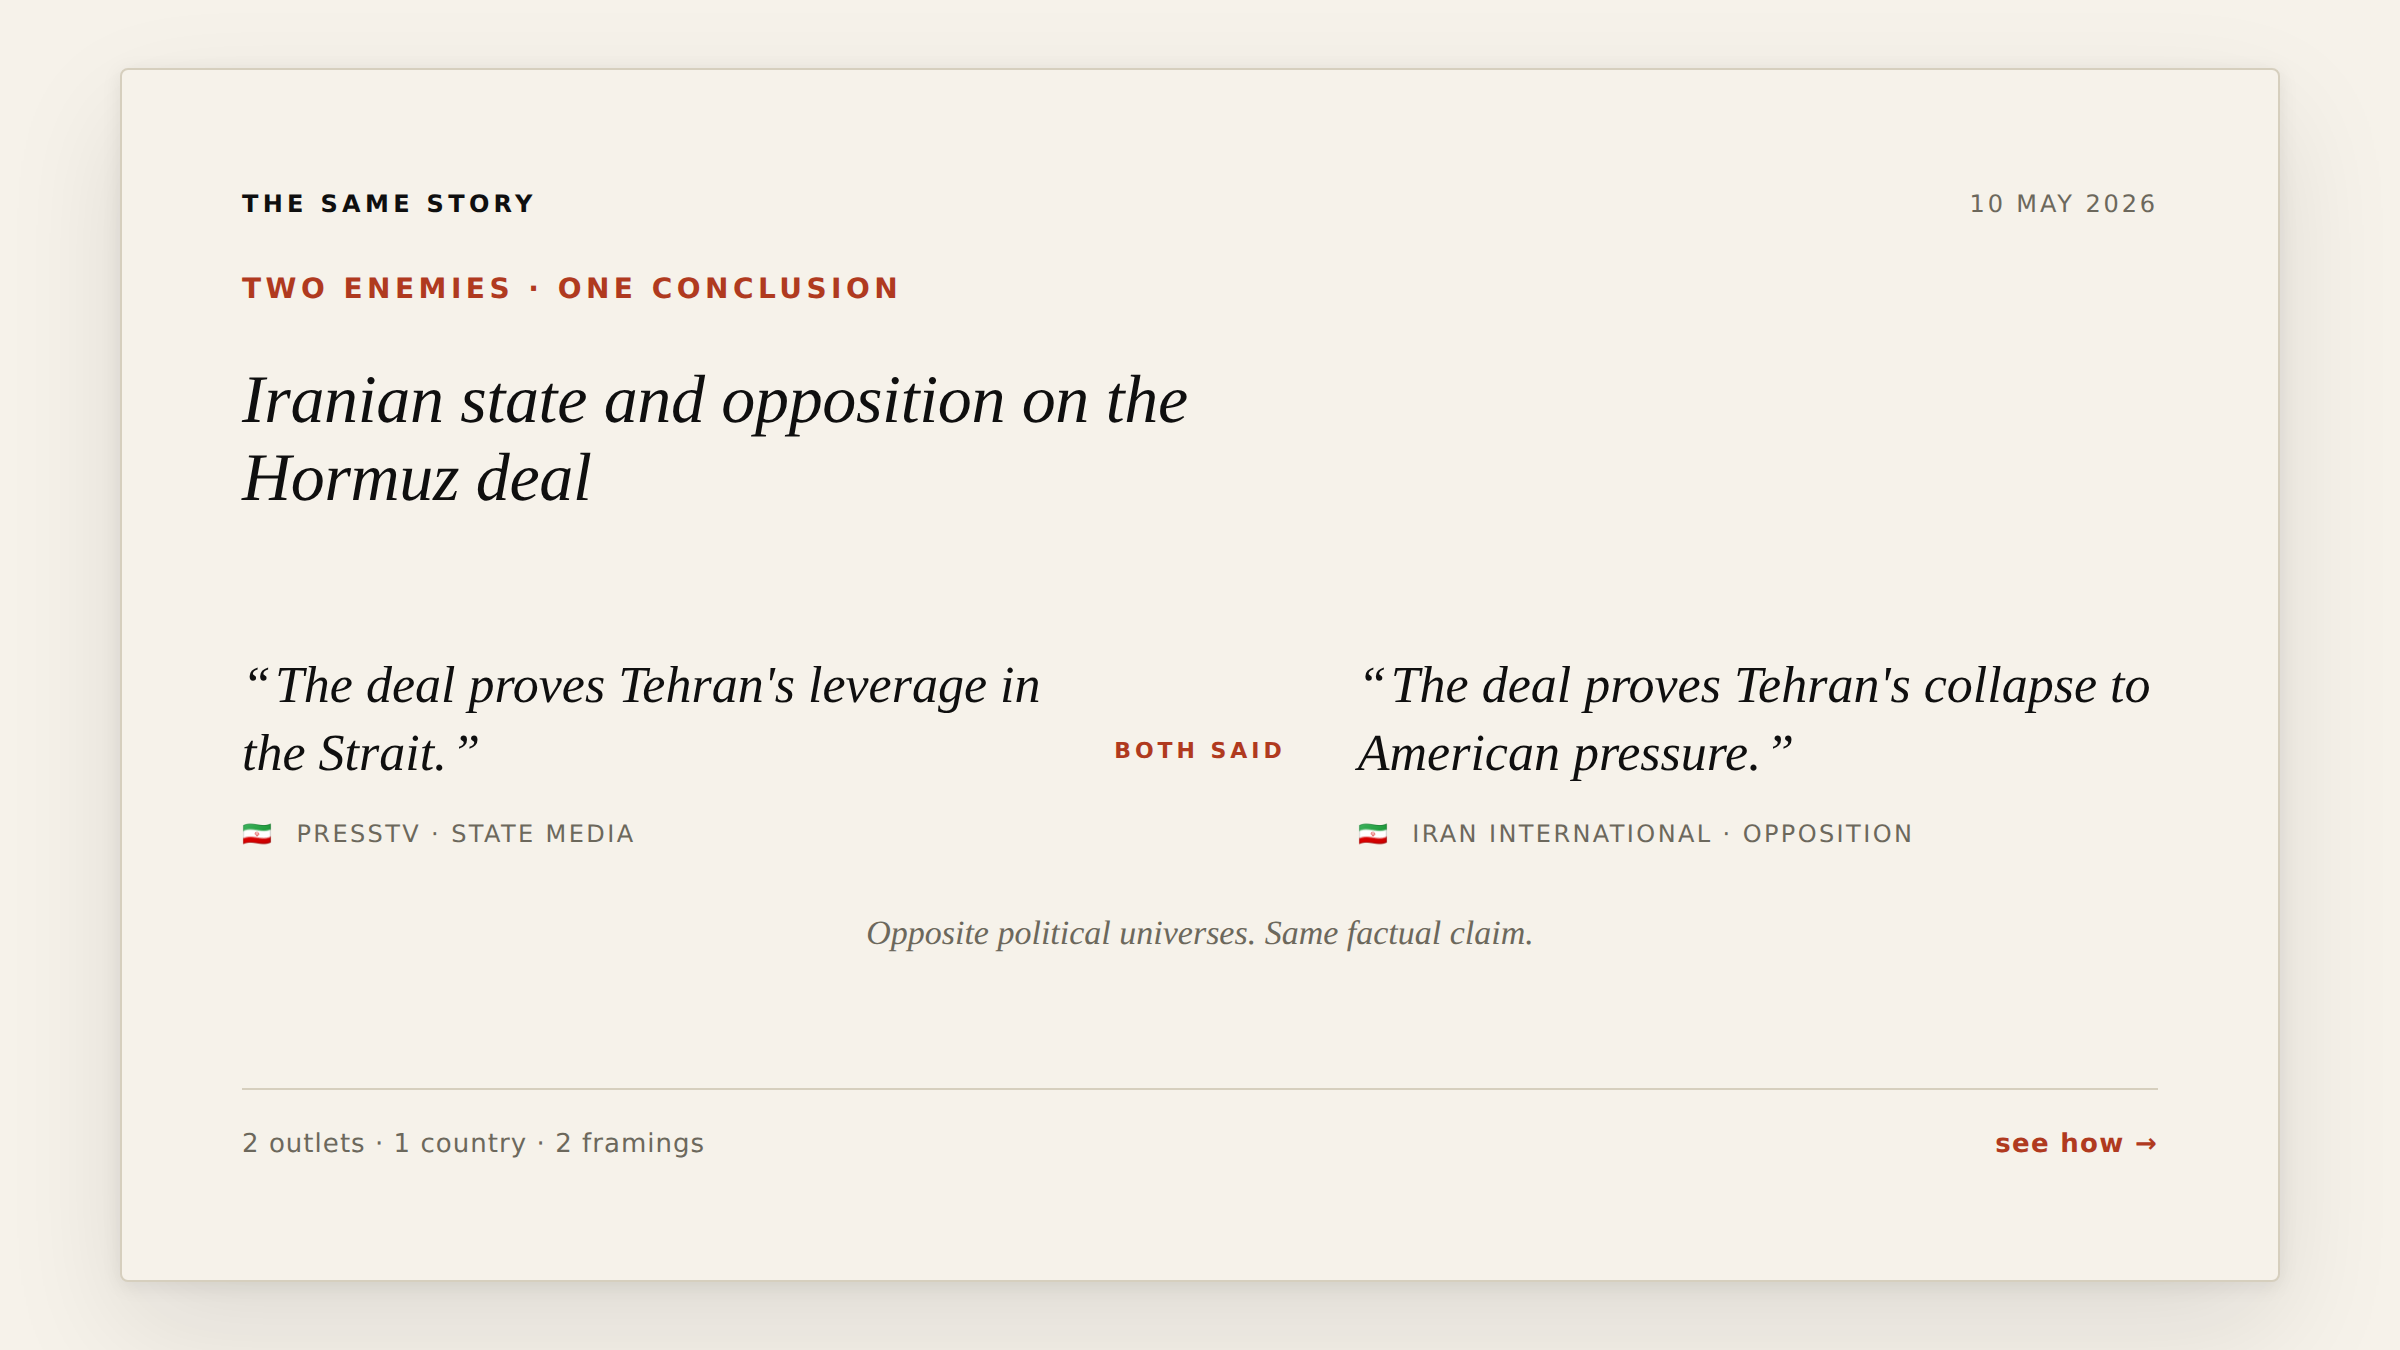
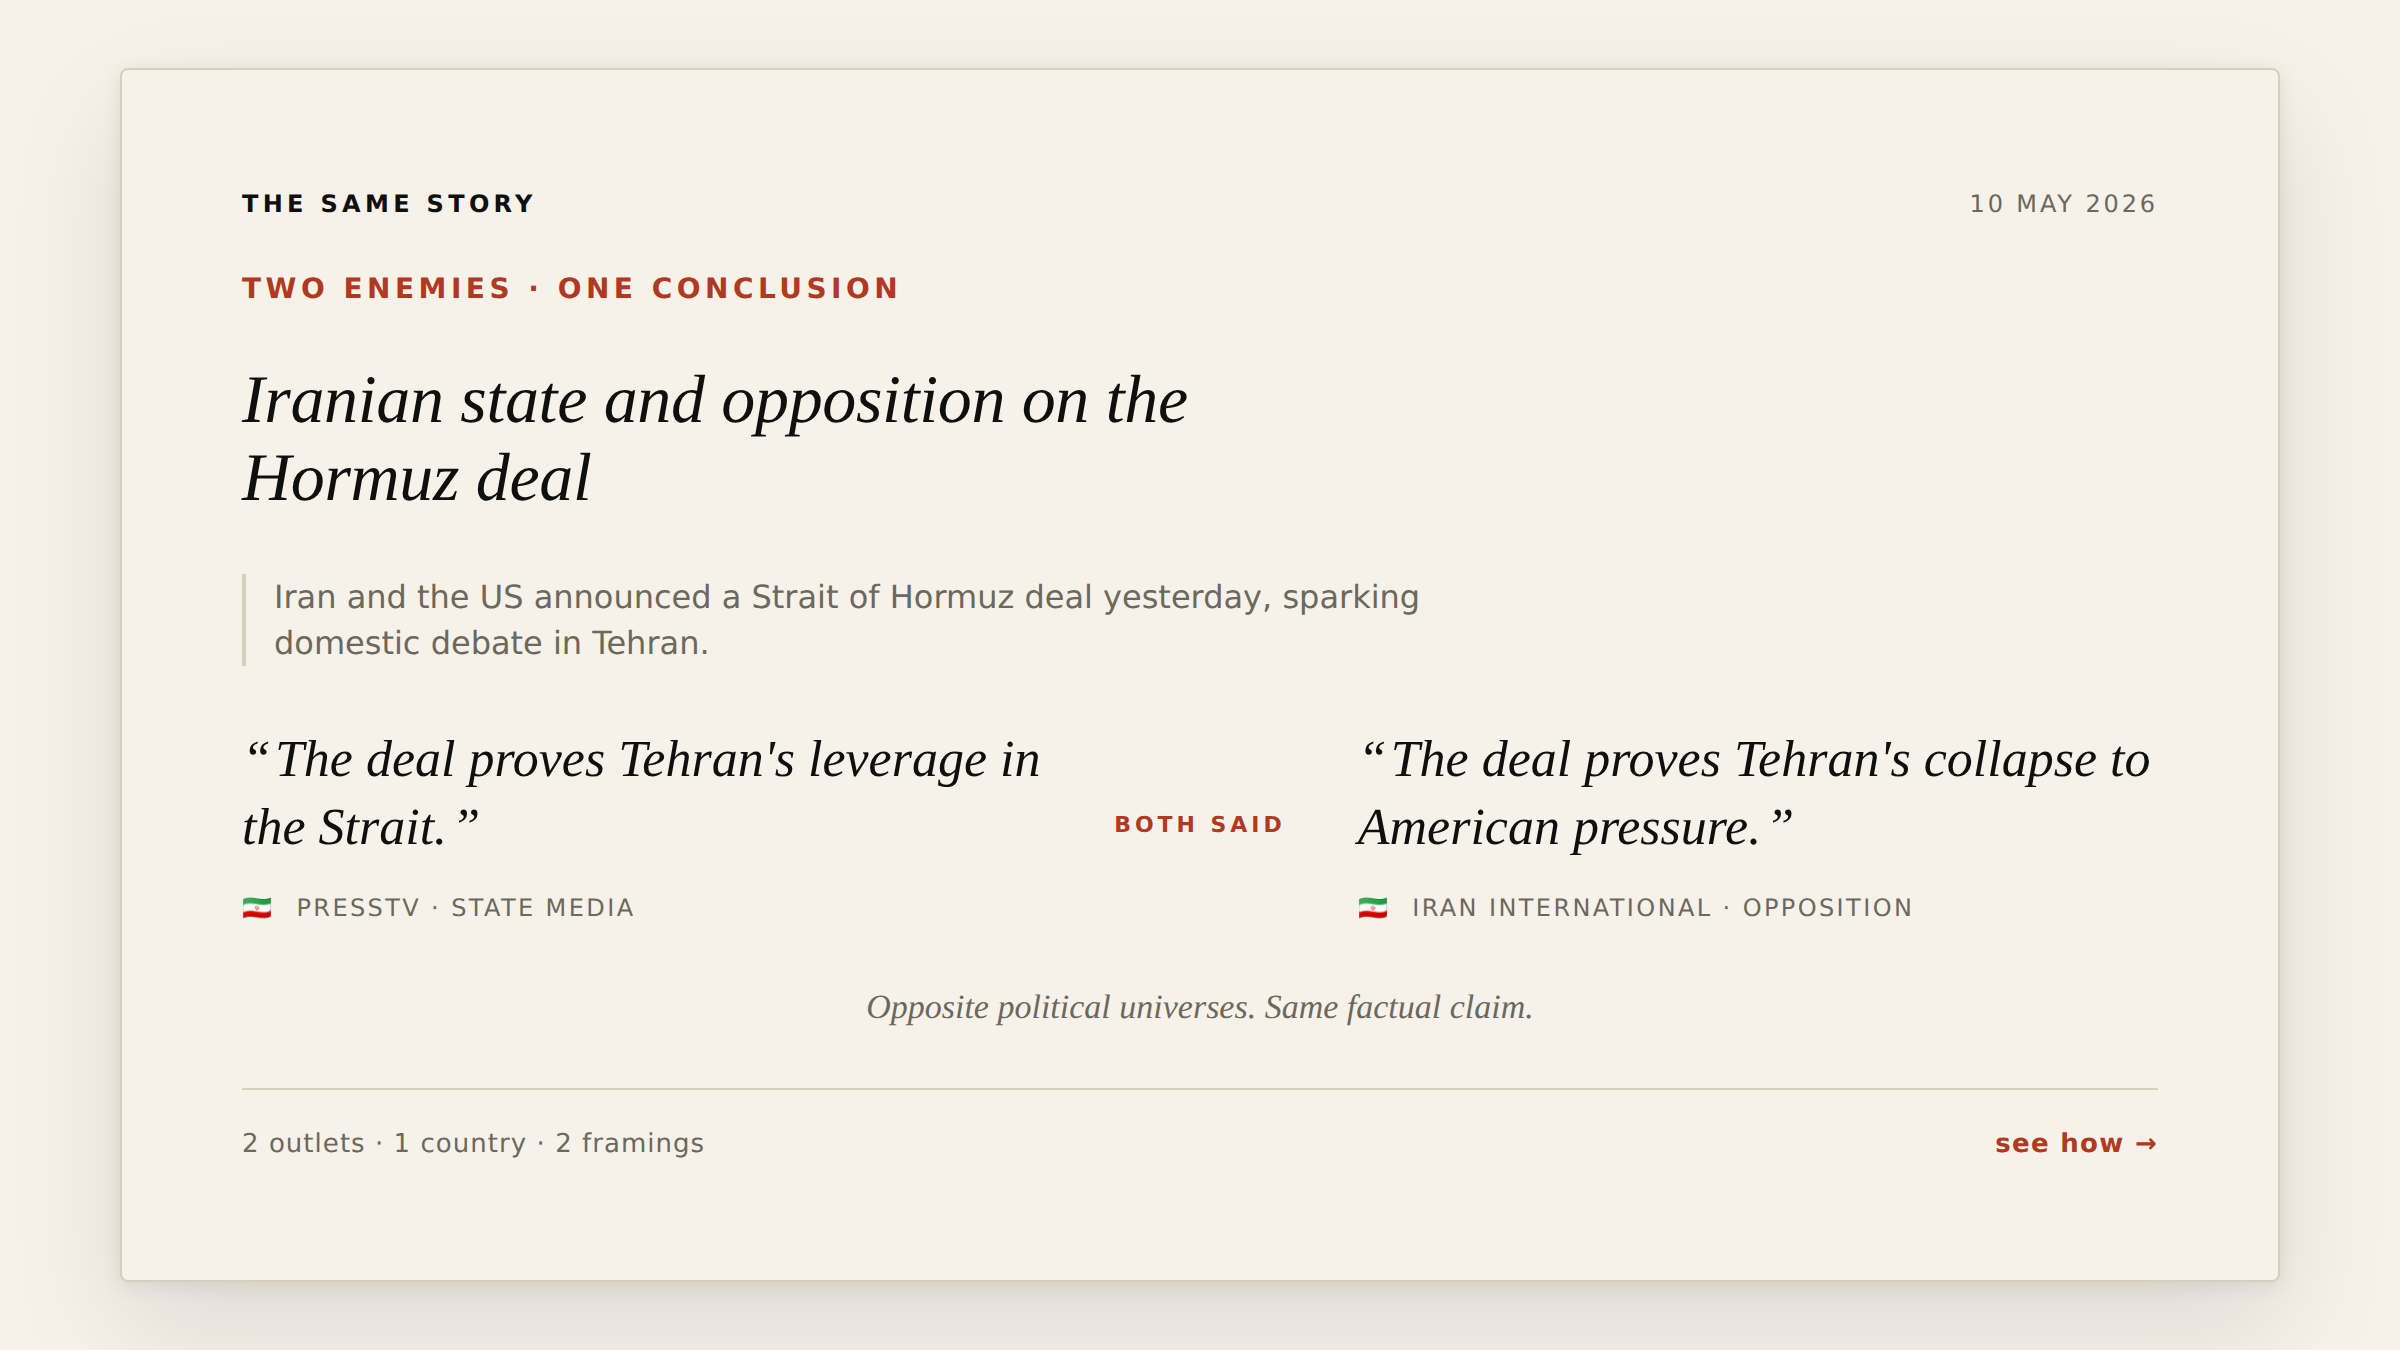
web: add story-entry kicker line to every card archetype
User feedback: the cards all assumed reader already knew what the
underlying event was ('The Iran-US Hormuz deal' isn't a story for
someone who hasn't been following). 9/10 readers need an anchor.

The fix: a single-sentence neutral-voice kicker between the framing
headline and the receipts content. Pulled from the analysis JSON
(either a new event_summary field on analysis.schema.json, or the
lead sentence of analysis.tldr as fallback).

Visual treatment: small display-sans, muted ink color, left rule.
Visually subordinate to the headline but immediately legible.
Reading order on the card is now:
  1. Eyebrow      — the angle (whose voices, etc.)
  2. Headline     — the framing finding
  3. Kicker       — what actually happened (in plain English)
  4. Content      — the receipts (words / quotes / flags / numbers)
  5. Byline       — sources count + see-how link

Card scaffold grid-template-rows updated from
  auto auto auto 1fr auto
to
  auto auto auto auto 1fr auto
so the kicker has its own row above the content's 1fr.

All 7 sample HTML files + the home index.html now carry a kicker.
Screenshots re-rendered.

Backend contract for integration LLM: add `event_summary` to
analysis.schema.json (optional, falls back to first sentence of
tldr). Card-pick logic in build_index.pick_todays_card reads it
and injects.

Still deferred (next user discussion): the home-page-level
'today's other stories' surface — a small strip below the daily
[…]

diff --git a/web/styles.css b/web/styles.css
@@ -140,7 +140,7 @@ main {
   background: var(--bg);
   border: 1px solid var(--rule); border-radius: var(--radius);
   box-shadow: var(--shadow);
-  display: grid; grid-template-rows: auto auto auto 1fr auto;
+  display: grid; grid-template-rows: auto auto auto auto 1fr auto;
   gap: clamp(16px, 3vw, 28px);
 }
 @media (min-width: 720px) {
@@ -168,6 +168,22 @@ main {
   font-size: clamp(22px, 3.4vw, 34px);
   line-height: 1.15; color: var(--ink);
   letter-spacing: -0.005em; max-width: 28ch;
+}
+
+/* Kicker — the reader's entry into the story. One short neutral-voice
+   paraphrase of what actually happened. Sits between the framing
+   headline and the content receipts. Pulled from analysis.event_summary
+   (or the lead sentence of analysis.tldr if that field isn't on schema
+   yet). Visually subordinate — small, muted, with a left rule. */
+.card-kicker {
+  margin: 0;
+  font-family: var(--font-display);
+  font-size: clamp(14px, 1.55vw, 16px);
+  line-height: 1.45;
+  color: var(--ink-muted);
+  max-width: 60ch;
+  padding-left: 14px;
+  border-left: 2px solid var(--rule);
 }
 
 .card-content { display: flex; flex-direction: column; justify-content: center; }

diff --git a/web/samples/shift.html b/web/samples/shift.html
@@ -17,7 +17,8 @@
     </header>
     <p class="card-eyebrow">Five days · one country · frame drift</p>
     <h1 class="card-headline">Israeli papers reframed Hormuz over the week</h1>
-    <div class="card-content">
+      <p class="card-kicker">Israeli papers have covered the unfolding Iran-US deal since Monday.</p>
+      <div class="card-content">
       <ol class="shift-sequence">
         <li>            <span class="day">Mon</span><span class="frame">security</span></li>
         <li>            <span class="day">Tue</span><span class="frame">security</span></li>

diff --git a/web/samples/paradox.html b/web/samples/paradox.html
@@ -17,7 +17,8 @@
     </header>
     <p class="card-eyebrow">Two enemies · one conclusion</p>
     <h1 class="card-headline">Iranian state and opposition on the Hormuz deal</h1>
-    <div class="card-content">
+      <p class="card-kicker">Iran and the US announced a Strait of Hormuz deal yesterday, sparking domestic debate in Tehran.</p>
+      <div class="card-content">
       <div class="paradox-side">
         <blockquote>The deal proves Tehran's leverage in the Strait.</blockquote>
         <cite><span class="flag">🇮🇷</span> PressTV · state media</cite>

diff --git a/web/samples/echo.html b/web/samples/echo.html
@@ -17,7 +17,8 @@
     </header>
     <p class="card-eyebrow">48 hours apart · identical framing</p>
     <h1 class="card-headline">The Times of London followed the New York Times this week</h1>
-    <div class="card-content">
+      <p class="card-kicker">Both papers ran an identical framing of this week's Hormuz developments.</p>
+      <div class="card-content">
       <article class="echo-instance">
         <div class="echo-meta">Tue 24 Mar<br>🇺🇸 NYT</div>
         <p class="echo-headline">Hormuz deal collapses amid Iranian rhetoric.</p>

diff --git a/web/samples/silence.html b/web/samples/silence.html
@@ -17,7 +17,8 @@
     </header>
     <p class="card-eyebrow">12 countries covered this · 1 didn't</p>
     <h1 class="card-headline">Egypt's papers ignored the Hormuz deal today</h1>
-    <div class="card-content">
+      <p class="card-kicker">Twelve countries' papers led with the Iran-US Hormuz deal today.</p>
+      <div class="card-content">
       <div class="silence-absent" aria-label="Egypt did not cover this story">
         <span class="flag">🇪🇬</span>
         <span class="silence-label">Egypt · didn't cover</span>

diff --git a/web/samples/sources.html b/web/samples/sources.html
@@ -17,7 +17,8 @@
     </header>
     <p class="card-eyebrow">Whose voices got platformed</p>
     <h1 class="card-headline">BBC's casting call on the Hormuz deal today</h1>
-    <div class="card-content">
+      <p class="card-kicker">On today's Iran-US Hormuz deal, every covering outlet made editorial choices about who to quote.</p>
+      <div class="card-content">
       <div class="sources-outlet">
         <div class="sources-outlet-head">
           <span class="flag">🇬🇧</span>

diff --git a/web/samples/tilt.html b/web/samples/tilt.html
@@ -17,7 +17,8 @@
     </header>
     <p class="card-eyebrow">Furthest from the wire this week</p>
     <h1 class="card-headline">Five outlets drifted most this week</h1>
-    <div class="card-content">
+      <p class="card-kicker">This week's news included the Hormuz deal, Lebanon developments, and a hantavirus outbreak.</p>
+      <div class="card-content">
       <ol class="tilt-stack">
         <li class="tilt-row featured">
           <span class="flag">🇷🇺</span>

diff --git a/web/samples/word.html b/web/samples/word.html
@@ -17,7 +17,8 @@
     </header>
     <p class="card-eyebrow">Same event · six words for it</p>
     <h1 class="card-headline">The Iran-US Hormuz deal, today</h1>
-    <div class="card-content">
+      <p class="card-kicker">Both governments announced a step to ease shipping tensions in the Strait of Hormuz.</p>
+      <div class="card-content">
       <div class="word-row">
         <span class="flag">🇮🇹</span>
         <span class="word-stack">

diff --git a/web/index.html b/web/index.html
@@ -41,8 +41,8 @@
     <p class="card-eyebrow">Same event · six words for it</p>
 
     <h1 class="card-headline">The Iran-US Hormuz deal, today</h1>
-
-    <div class="card-content">
+      <p class="card-kicker">Both governments announced a step to ease shipping tensions in the Strait of Hormuz.</p>
+      <div class="card-content">
       <div class="word-row">
         <span class="flag">🇮🇹</span>
         <span class="word-stack">
